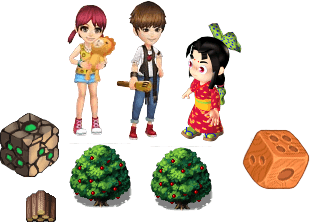
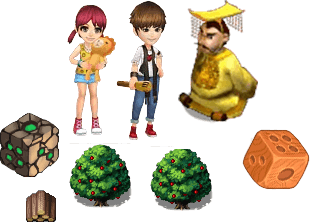
皇帝图片更换

Changed region(s): [[0.5516, 0.0, 0.8419, 0.6486], [0.5806, 0.6486, 0.6097, 0.6757]]

diff --git a/my/style/resume.css b/my/style/resume.css
@@ -146,7 +146,7 @@ body{
 }
 .role-list.runner p{
   width: 80px;
-  height: 113px;
+  height: 124px;
 	background: url(../images/sub-img.png) no-repeat -420px -360px;
 }
 .game-cutdown{
